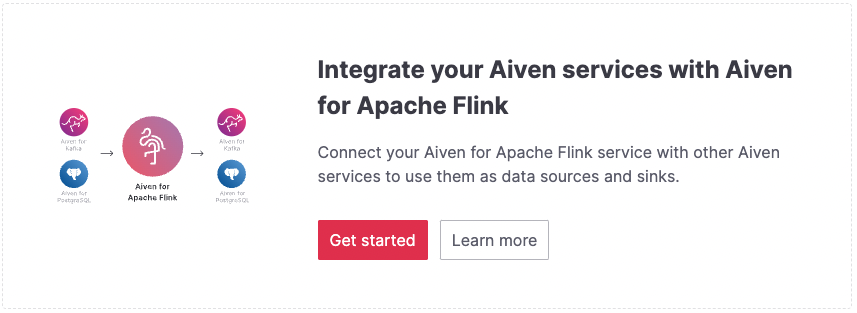
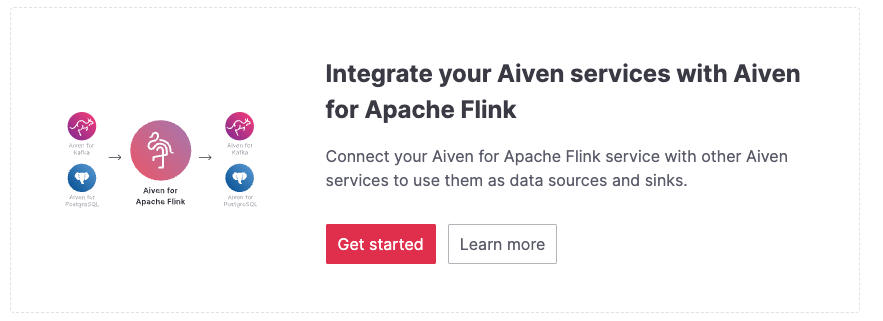
Fixed some stylying issues

diff --git a/docs/products/flink/howto/create-integration.rst b/docs/products/flink/howto/create-integration.rst
@@ -6,8 +6,8 @@ With Apache Flink®, you can create streaming data pipelines across services. Ai
 To use Aiven for Apache Kafka, Aiven for PostgreSQL, or Aiven for OpenSearch as a source or target for a Flink application, you will need to integrate the related service with Aiven for Apache Flink.
 
 
-Create Apache Flink® data service integrations 
-----------------------------------------------
+Create data service integration
+--------------------------------
 
 You can easily create Aiven for Apache Flink® data service integrations via the `Aiven Console <https://console.aiven.io/>`_ by following these steps: 
 
@@ -15,7 +15,7 @@ You can easily create Aiven for Apache Flink® data service integrations via the
 2. If you are setting up the first integration for the selected Aiven for Apache Flink service, click on the **Get Started** button available under the **Overview** tab.
 
 .. image:: /images/products/flink/integrations-get-started.png
-  :scale: 50 %
+  :scale: 80 %
   :alt: Image of the Aiven for Apache Flink Overview page with focus on the Get Started Icon
 
 3. To configure the data flow with Apache Flink®, select the Aiven for Apache Kafka®, Aiven for PostgreSQL®, or Aiven for OpenSearch® service that you wish to integrate. Click the **Integrate** button to complete the integration process.
@@ -27,7 +27,7 @@ You can easily create Aiven for Apache Flink® data service integrations via the
 4. You can include additional integrations using the plus(**+**) button in the **Data Flow** section
 
 .. image:: /images/products/flink/integrations-add.png
-   :scale: 50 %
+   :scale: 60 %
    :alt: Image of the Aiven for Apache Flink Integration page showing an existing Aiven for Apache Kafka integration and the + icon to add additional integrations
 
 

diff --git a/docs/products/flink/howto/create-flink-applications.rst b/docs/products/flink/howto/create-flink-applications.rst
@@ -25,10 +25,10 @@ Follow these steps to build your first Aiven for Flink application:
 
 6. In the **Add new source table** screen, 
     
-    * Select the **Integrated service** from the drop-down list. 
-    * In the **Table SQL** section, enter the statement that will be used to create the table. 
-    * Optionally, click **Run** to view how data is being pulled from the data source. This could take some time based on the data and the connection. 
-    * Click **Add table**. 
+   * Select the **Integrated service** from the drop-down list. 
+   * In the **Table SQL** section, enter the statement that will be used to create the table. 
+   * Optionally, click **Run** to view how data is being pulled from the data source. This could take some time based on the data and the connection. 
+   * Click **Add table**. 
 7. Click **Next** to add the sink table, and then click **Add your first sink table**. 
    
    .. note::   

diff --git a/docs/products/flink/getting-started.rst b/docs/products/flink/getting-started.rst
@@ -20,10 +20,13 @@ Create data service integration
 Aiven for Apache Flink® allows you to build data pipelines that stream across different services. It currently supports integration with Aiven for Apache Kafka®, Aiven for PostgreSQL®, and Aiven for OpenSearch® as sources and targets for Flink applications.
 
 To create your first data service integration: 
+
 1. Open your Aiven for Apache Flink. 
 2. In the **Overview** tab, click the **Get Started** button.
 3. Choose the service you wish to integrate: Aiven for Apache Kafka®, Aiven for PostgreSQL®, or Aiven for OpenSearch®.
 4. Click the **Integrate** button to complete the integration process.
+
+For detailed steps, see :doc:`Create Apache Flink® data service integrations <howto/create-integration>`. 
 
 Create Aiven for Apache Flink® application
 -------------------------------------------
